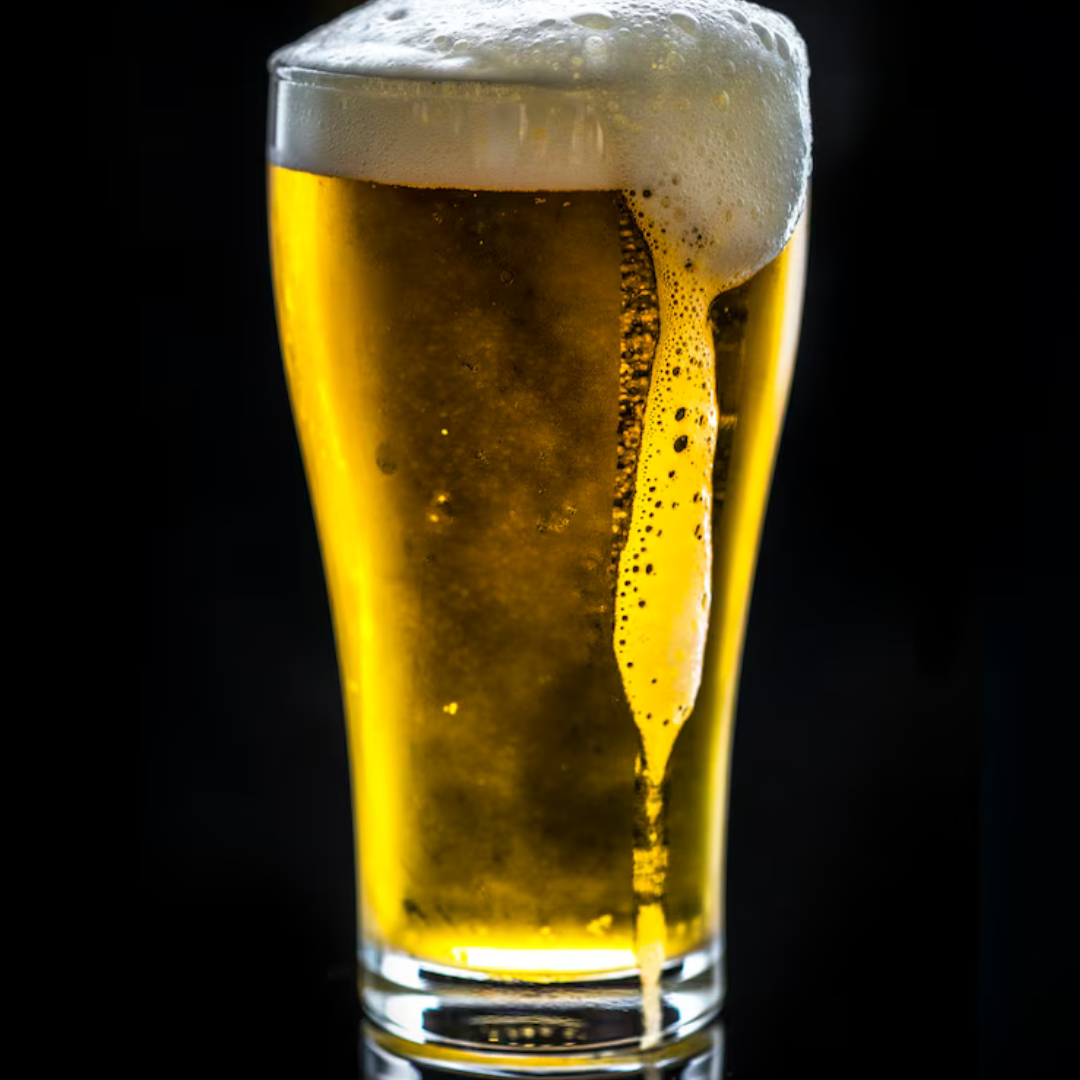
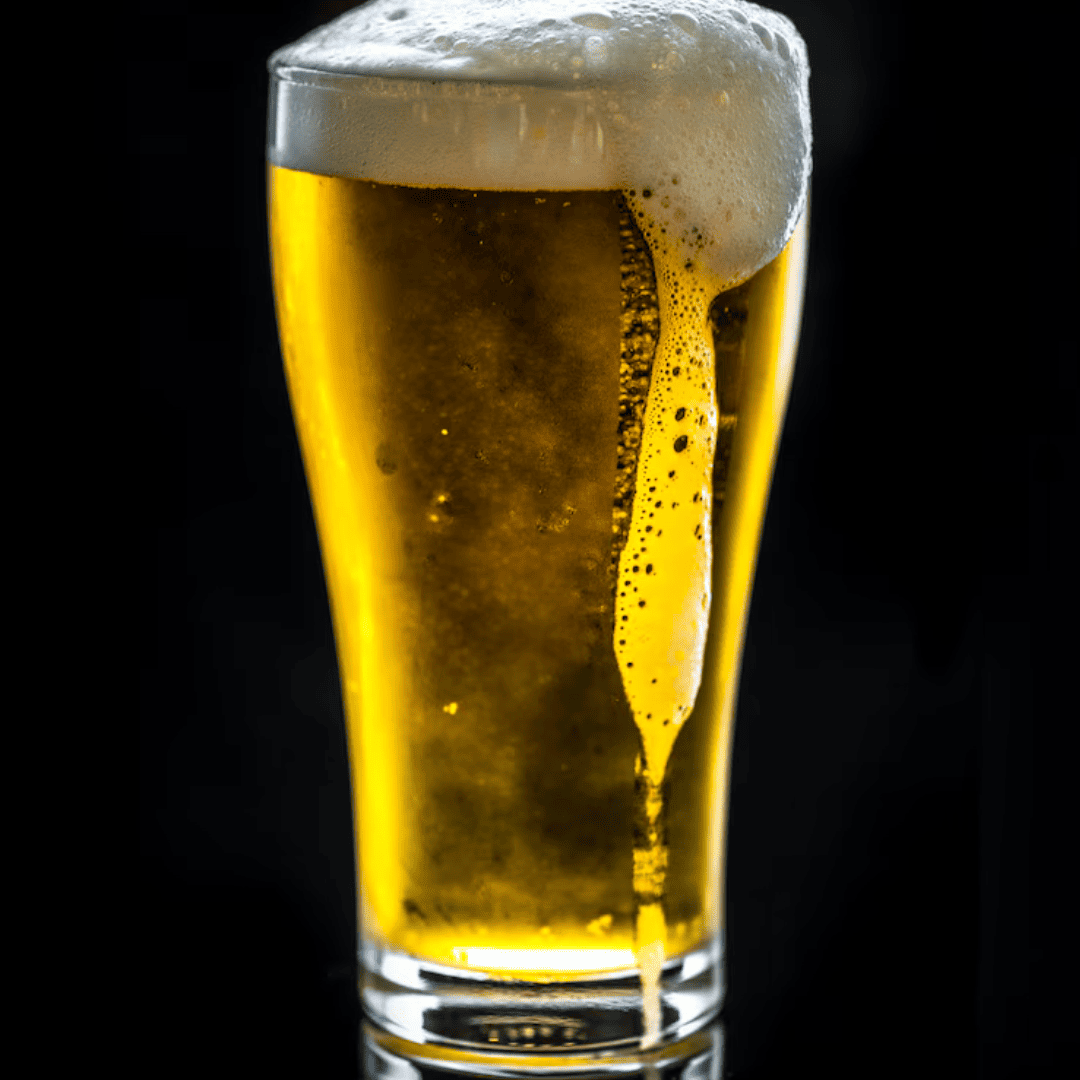
Correção de dimensão de imagens do cardápio  e diminuindo tamanho das imagens para melhor desempenho

diff --git a/main.css b/main.css
@@ -159,8 +159,31 @@ body {
 
 
 
-@media (max-width: 767px) {
+@media screen and (max-width: 767px) {
     .carousel-item img {
-        height: 280px;
+        max-width: 100%;
+        height: 210px;
+        object-fit: cover;
+    }
+
+
+    .col-md-3 img {
+        height: 70%;
+        object-fit: cover;
+        
+        margin-top: 40px;
+    }
+
+}
+
+@media screen and (min-width:768px) and (max-width:1023px) {
+    .carousel-item img {
+        max-width: 100%;
+        height: 380px;
+        object-fit: cover;
+    }
+    .col-md-3 img {
+        height: 40%;
+        object-fit: contain;
     }
 }
